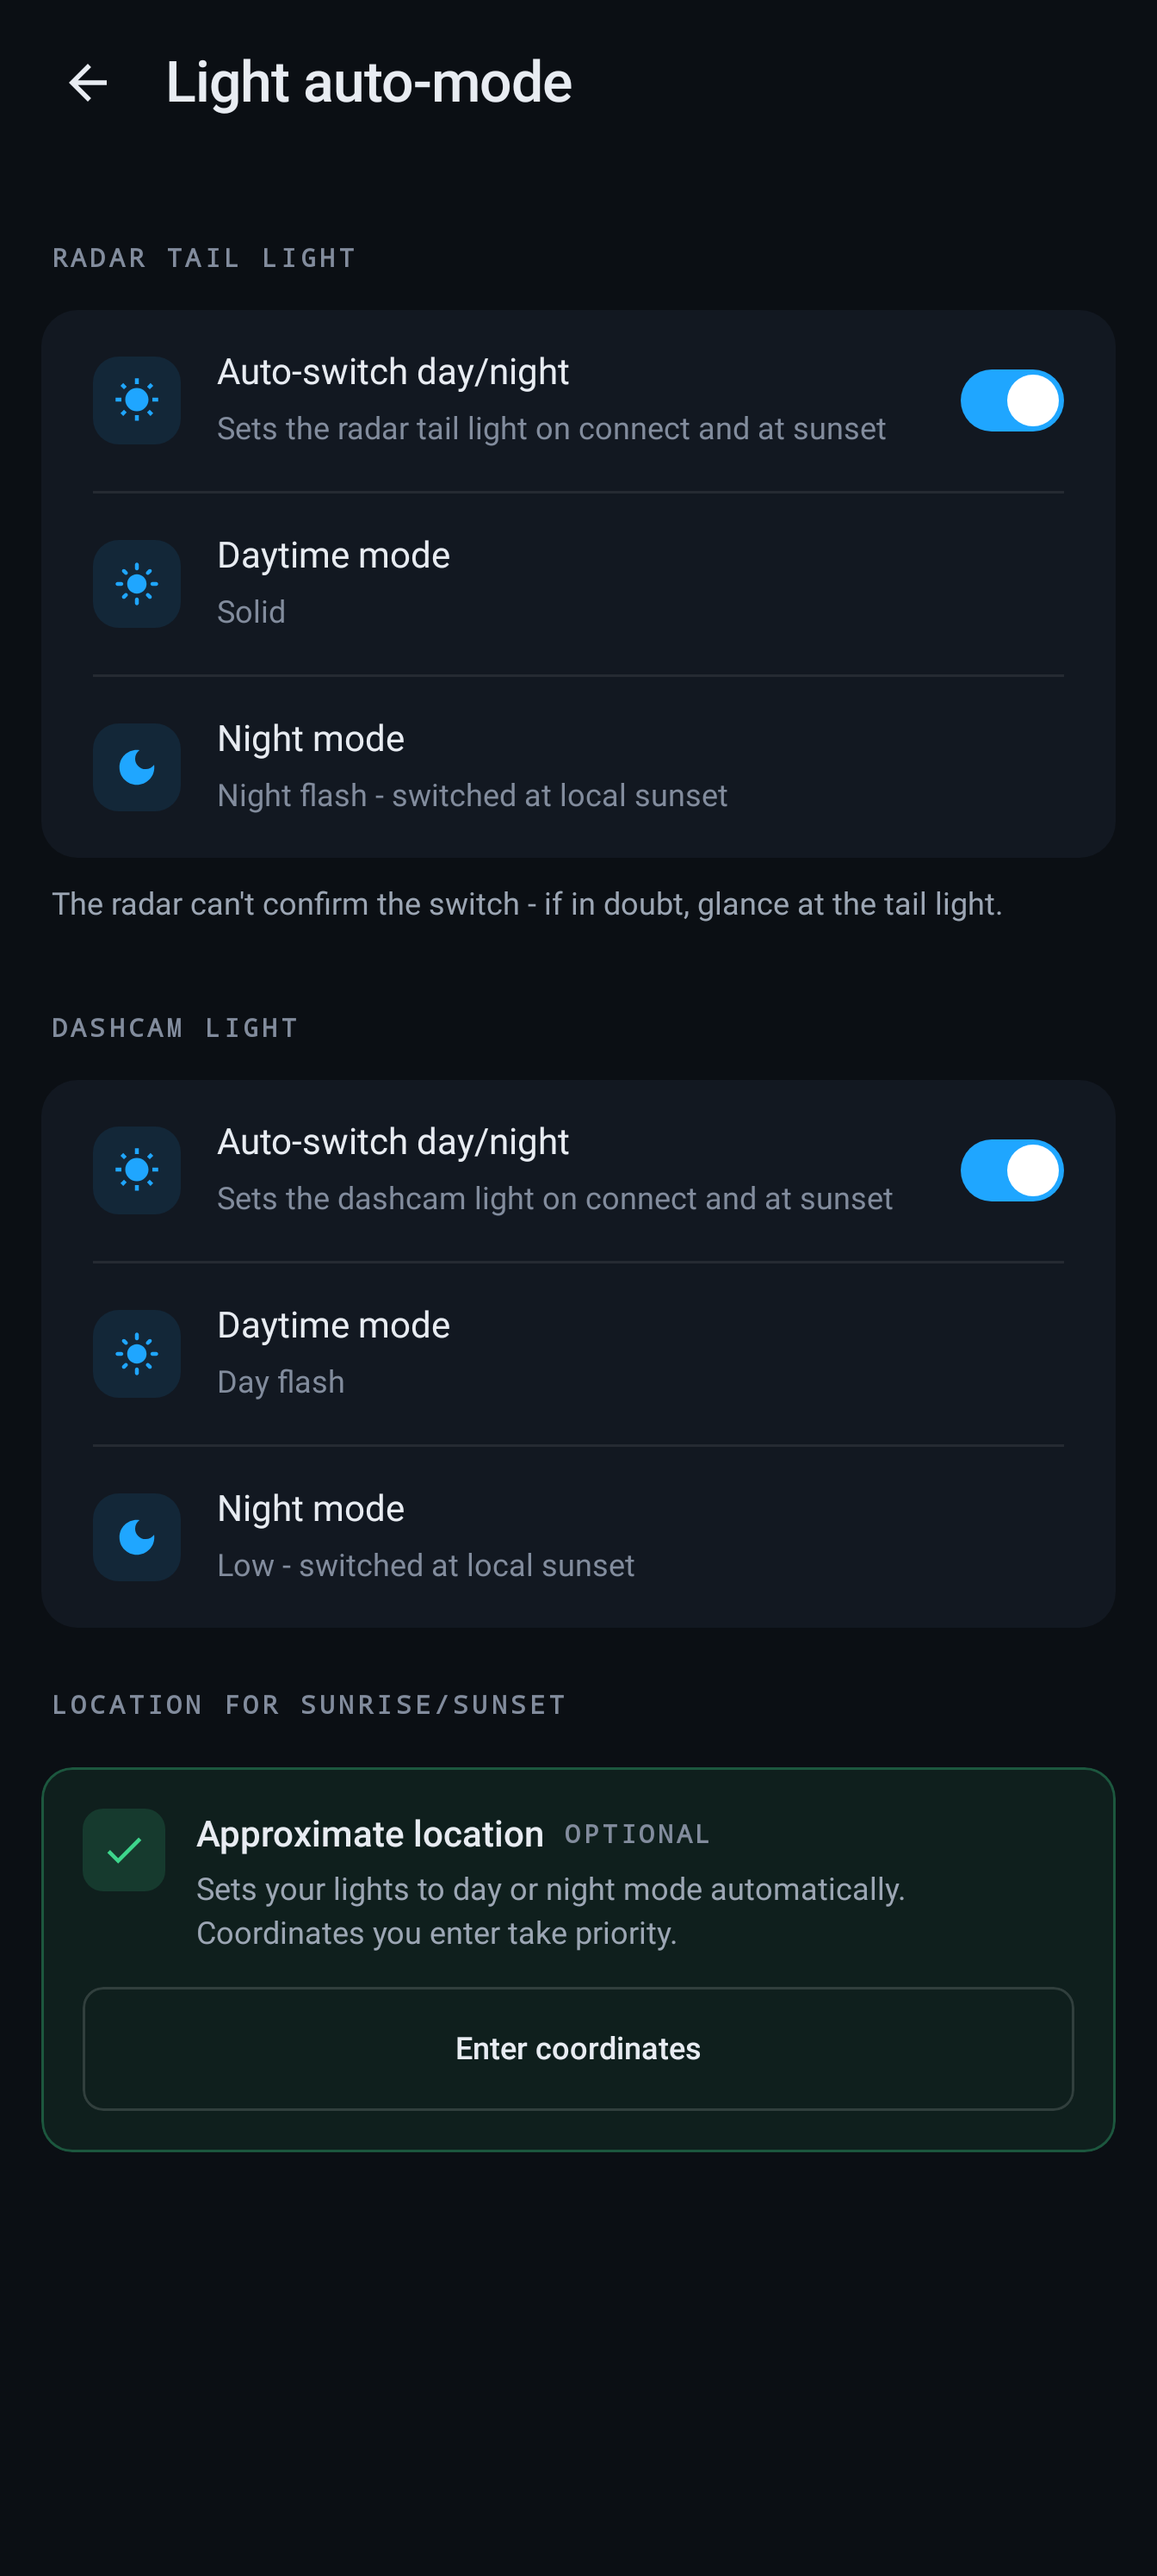
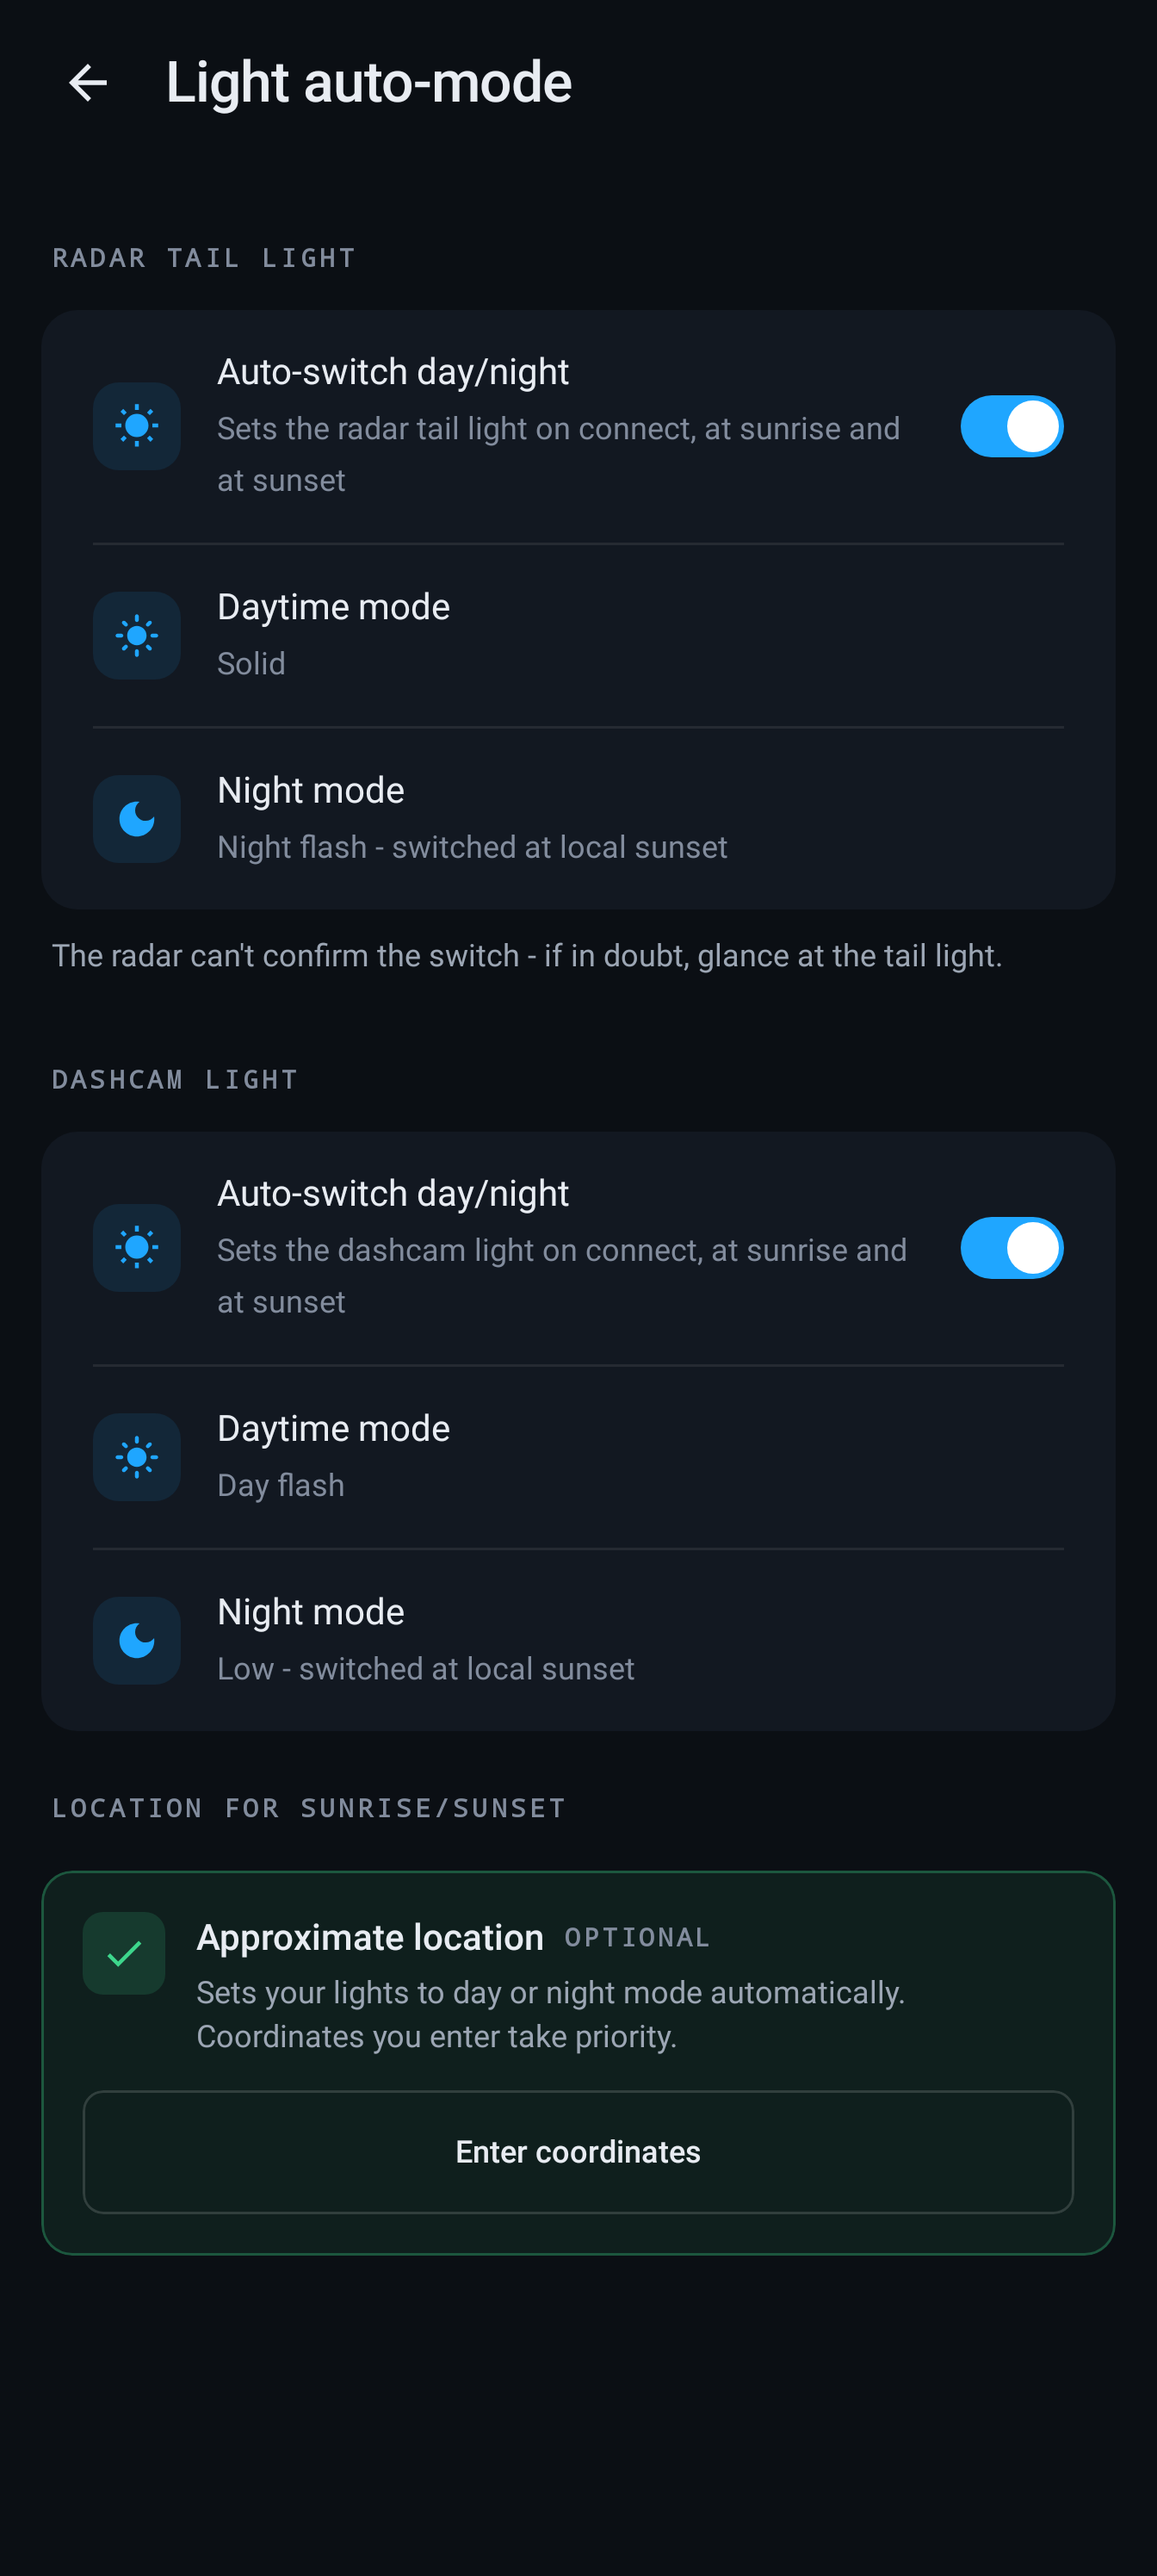
ui(lights): say what a button press and auto-mode do, in app and README
The README said a press on a light's button wins for the rest of the
ride, and that the dashcam light is set to Night Flash after sunset. A
press holds auto-mode off for that light until the camera or radar has
been off for two minutes, and the night mode is the rider's choice, Low
by default. The two Settings subtitles now say the light is also set at
sunrise.

diff --git a/README.md b/README.md
@@ -62,16 +62,18 @@ screen stays yours.
   clearances, time with traffic behind you, alerts per km and per hour, and
   the tightest pass: time, side, vehicle size, clearance, closing speed and
   distance behind).
-- Front-camera light auto-mode: picks Day Flash before sunset, Night
-  Flash after, computed from your location. Grant approximate location, or
-  enter coordinates manually if you'd rather not (London fallback if you do
-  neither). A manual button press during the session wins for the rest of
-  the ride.
+- Front-camera light auto-mode: sets the light to a day mode (default Day
+  flash) before sunset and a night mode (default Low) after, computed from
+  your location. Grant approximate location, or enter coordinates manually
+  if you'd rather not (London fallback if you do neither). Press the light's
+  own button and auto-mode won't switch it again until the camera has been
+  off for two minutes.
 - Radar tail-light auto-mode: sets the rear radar's tail light to a day
-  mode (default Day Flash) before sunset and a night mode (default Night
-  Flash) after, from the same device location. Sets the mode by type, so
-  it leaves your radar's button-cycle configuration untouched; a manual
-  button press wins for the rest of the ride. Off by default.
+  mode (default Day flash) before sunset and a night mode (default Night
+  flash) after, from the same device location. Sets the mode by type, so
+  it leaves your radar's button-cycle configuration untouched. Press the
+  light's own button and auto-mode won't switch it again until the radar
+  has been off for two minutes. Off by default.
 - Bosch eBike data (read-only), while Bosch Flow is connected to the bike:
   shows the bike's battery and connection status on the home screen. Its speed
   sets the beep timing and drives the no-radar warning, and the bike's own
@@ -410,8 +412,10 @@ ajustes de idioma por aplicación de Android (Android 13 o posterior).
   tiempo con tráfico detrás, avisos por km y por hora, y el adelantamiento más
   cercano: hora, lado, tamaño del vehículo, holgura, velocidad de aproximación
   y distancia por detrás).
-- Luz delantera y luz trasera del radar en modo automático según el
-  atardecer local.
+- Modo automático para la luz de la cámara y la luz trasera del radar, según
+  el amanecer y el atardecer locales. Si pulsas el botón de la propia luz, el
+  modo automático no vuelve a cambiarla hasta que el dispositivo pase 2
+  minutos apagado.
 - Datos de la eBike Bosch (solo lectura), mientras Bosch Flow está conectado a
   la bici: la pantalla de inicio muestra la batería y el estado de conexión.
   Con la velocidad, la app ajusta el ritmo de los pitidos y activa el aviso de

diff --git a/AGENTS.md b/AGENTS.md
@@ -141,13 +141,13 @@ to its file. The notes below are the working summary.
 - The app connects to two BLE device classes: the rear radar and the front
   camera/light. Each has its own AMV UUID pair (see Gotchas).
 - HA integration is optional; the overlay works standalone.
-- Front-light mode is auto-set on every BLE connect: Day Flash before
-  sunset, Night Flash after, using `SunsetCalculator` driven by
-  `RideLocationResolver`: rider-entered manual coordinates if set, else
-  `LocationCache`'s approximate area, else a London fallback. A one-shot
-  dawn/dusk flip is scheduled for the rest of the session. Skipped when
-  `cameraLightUserOverride` is set (manual side-button press during the
-  session). See `CameraLightLinkController.kt` connect path.
+- Front-light mode is auto-set on every BLE connect: the rider's day mode
+  before sunset and night mode after (defaults Day flash and Low), using
+  `SunsetCalculator` driven by `RideLocationResolver`: rider-entered manual
+  coordinates if set, else `LocationCache`'s approximate area, else a London
+  fallback. A one-shot dawn/dusk flip is scheduled for the rest of the
+  session. Skipped when `cameraLightUserOverride` is set (manual side-button
+  press during the session). See `CameraLightLinkController.kt` connect path.
   Where the location comes from, and why the service cannot read it itself:
   "Location for light auto-mode" in `ARCHITECTURE.md`.
 - Capture log is opt-in (off by default; `Prefs.captureLoggingEnabled`, toggled
